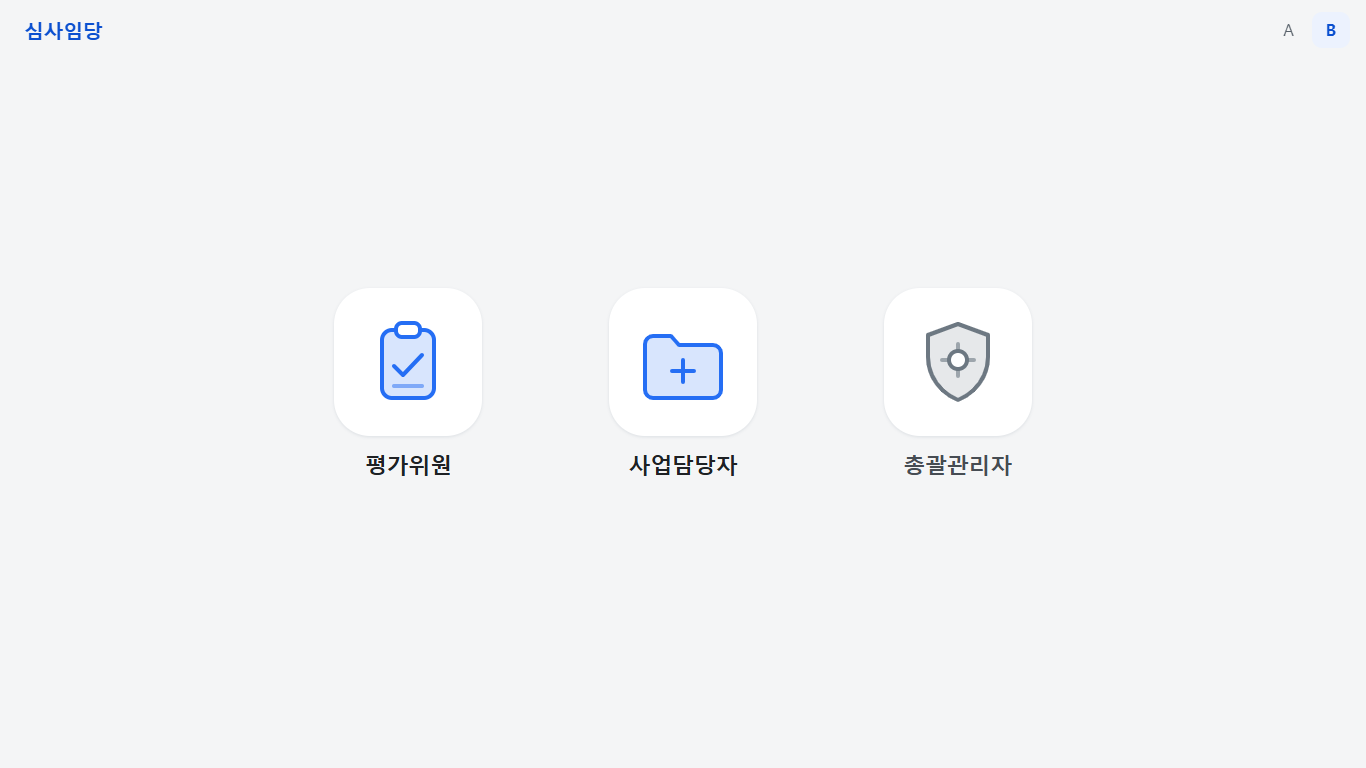
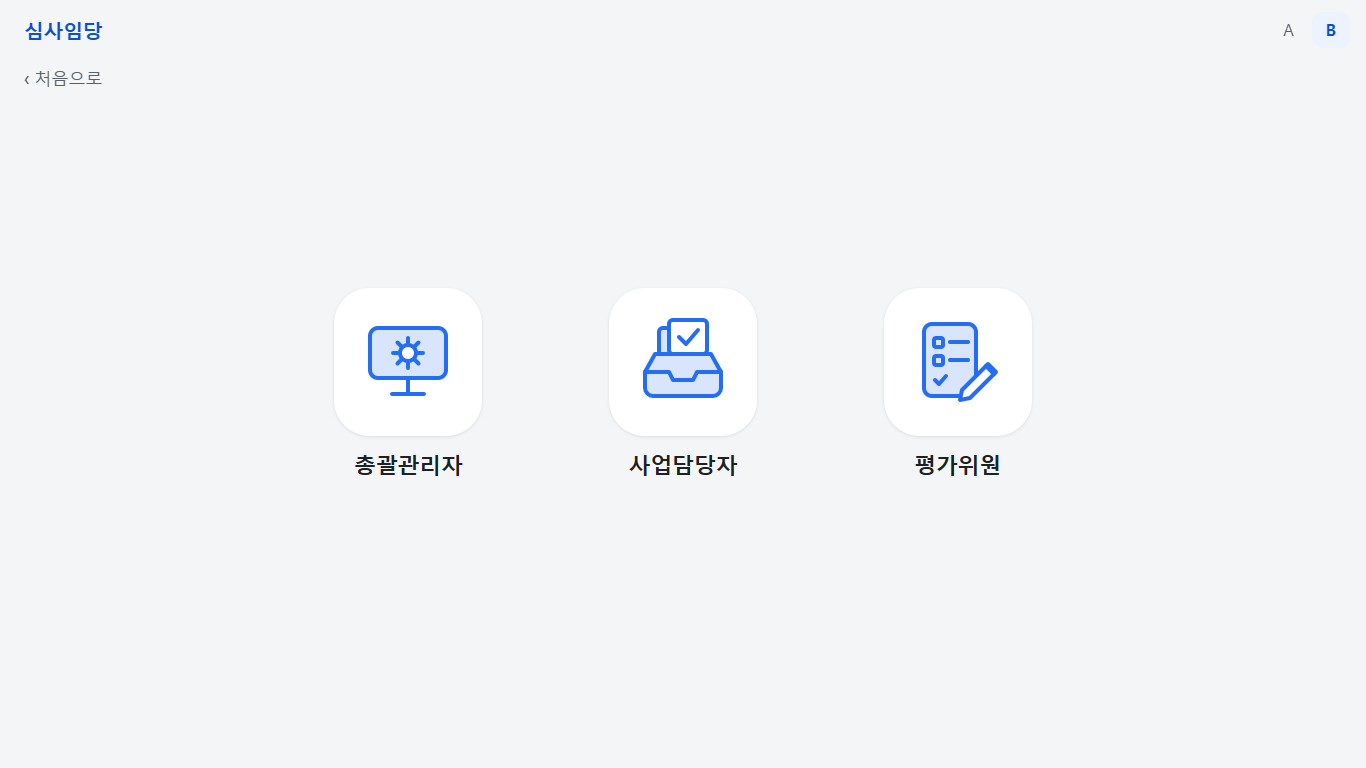
docs(v2): 입장 화면 — 기존 소개 화면 → 아이콘 3개(총괄·사업담당·평가위원), 역할별 아이콘
Claude-Session: https://claude.ai/code/session_01LuyyU4d1wqZ9KyXM4oPeDy

diff --git a/v2/00-입장/시안/entry.html b/v2/00-입장/시안/entry.html
@@ -4,10 +4,11 @@
 <meta charset="utf-8">
 <meta name="viewport" content="width=device-width, initial-scale=1">
 <title>심사임당 입장</title>
-<!-- 순서 결정: 평가위원 · 사업담당자 · 총괄관리자. 자주 쓰는 순으로 두고, 가끔 쓰는 총괄관리자는 맨 끝에 같은 크기·회색 톤으로 조용히 둠. -->
+<!-- 흐름: 기존 소개 첫 화면 → [평가 시작] → 아이콘 3개(총괄관리자 · 사업담당자 · 평가위원, 같은 비중) → 로그인. -->
 <style>
 :root{
   --primary-5:#ecf2fe;--primary-10:#d8e5fd;--primary-20:#b1cefb;--primary-50:#256ef4;--primary-60:#0b50d0;
+  --secondary-70:#063a74;--secondary-90:#031f3f;--on-dark-2:#d8e5fd;--on-dark-3:#b1cefb;--glow:rgb(37 110 244/.2);--shadow-5:0 15px 35px rgb(3 31 63/.18);--vendor-a:#256ef4;--vendor-b:#0e8a6a;--vendor-c:#7a4fd6;
   --gray-0:#fff;--gray-5:#f4f5f6;--gray-10:#e6e8ea;--gray-20:#cdd1d5;--gray-30:#b1b8be;--gray-50:#6d7882;--gray-60:#58616a;--gray-70:#464c53;--gray-90:#1e2124;
   --text-1:var(--gray-90);--text-2:var(--gray-70);--text-3:var(--gray-60);
   --radius-sm:10px;--radius-lg:20px;
@@ -30,6 +31,7 @@ body.vb{--page:var(--gray-5)}
 .vt a:hover{background:var(--gray-10)}
 .mark{position:fixed;top:16px;left:24px;font-weight:800;font-size:20px;letter-spacing:-.02em;color:var(--primary-60);margin:0}
 
+main:focus{outline:none}
 main{min-height:100vh;display:flex;flex-direction:column;align-items:center;justify-content:center;padding:96px 24px 64px}
 .choices{display:flex;gap:clamp(16px,4vw,72px);justify-content:center;align-items:flex-start;list-style:none;margin:0;padding:0}
 .choices li{display:block}
@@ -47,14 +49,12 @@ main{min-height:100vh;display:flex;flex-direction:column;align-items:center;just
 .pick:focus-visible{outline-offset:2px}
 
 .ic-fill{fill:var(--primary-5)} .ic-line{stroke:var(--primary-50)}
-.pick.admin .ic-fill{fill:var(--gray-10)} .pick.admin .ic-line{stroke:var(--gray-50)}
-.pick.admin .name{color:var(--text-2)}
 svg *{stroke-linecap:round;stroke-linejoin:round}
 
 .vb .ico{width:148px;height:148px;border-radius:36px;background:var(--gray-0);box-shadow:var(--shadow-1)}
 .vb .ico svg{width:96px;height:96px}
 .vb .pick:hover .ico,.vb .pick:focus-visible .ico{box-shadow:var(--shadow-4)}
-.vb .ic-fill{fill:var(--primary-10)} .vb .pick.admin .ic-fill{fill:var(--gray-10)}
+.vb .ic-fill{fill:var(--primary-10)}
 
 .login{width:100%;max-width:400px;overflow:hidden;max-height:0;opacity:0;transform:translateY(24px);visibility:hidden;
   transition:max-height .45s var(--ease),opacity .35s,transform .45s var(--ease),margin .45s}
@@ -83,7 +83,7 @@ input:focus{outline:3px solid var(--primary-20);border-color:var(--primary-50)}
 @media (max-width:720px){
   main{padding:72px 16px 40px}
   .choices{flex-direction:column;gap:4px;align-items:center}
-  .pick{display:grid;grid-template-columns:auto 1fr;column-gap:20px;row-gap:0;width:300px;max-width:100%;padding:8px 12px;text-align:left;align-items:center;justify-items:start}
+  .pick{display:grid;grid-template-columns:auto 1fr;column-gap:20px;row-gap:0;width:340px;max-width:100%;padding:8px 12px;text-align:left;align-items:center;justify-items:start}
   .pick .ico{grid-row:1/3}
   .ico,.ico svg{width:80px;height:80px}
   .vb .ico{width:88px;height:88px;border-radius:24px}.vb .ico svg{width:56px;height:56px}
@@ -93,34 +93,106 @@ input:focus{outline:3px solid var(--primary-20);border-color:var(--primary-50)}
 }
 @media (prefers-reduced-motion:reduce){
   *,*::before,*::after{transition:none!important;animation:none!important}
+  .cs-tilt{transform:none!important}
 }
+
+/* ── 첫 화면(기존 앱 소개 화면 그대로) ── */
+.intro{position:fixed;inset:0;z-index:20;overflow:auto;background:linear-gradient(160deg,var(--secondary-90),var(--secondary-70));color:#fff;
+  padding:48px;display:flex;flex-direction:column;justify-content:space-between;gap:32px;transition:opacity .45s var(--ease),visibility 0s}
+.intro::before{content:'';position:absolute;inset:auto -20% -30% auto;width:70%;aspect-ratio:1;border-radius:9999px;background:radial-gradient(closest-side,var(--glow),transparent);pointer-events:none}
+.intro>*{position:relative}
+.s-pick .intro{opacity:0;visibility:hidden;pointer-events:none;transition:opacity .45s var(--ease),visibility 0s .45s}
+.brand{display:flex;align-items:center;gap:12px}
+.brand strong{font-size:20px;color:#fff;display:block}
+.brand-mark{width:38px;height:38px;border-radius:var(--radius-sm);background:var(--primary-50);color:#fff;display:grid;place-items:center;font-weight:700}
+.hero-body{display:flex;flex-direction:column}
+.hero-eyebrow{color:var(--on-dark-3);font-weight:700;margin:0 0 8px}
+.intro h1{font-size:48px;line-height:1.3;margin:12px 0 8px}
+.cs-scene{perspective:1100px;height:40px;margin:0;display:grid;place-items:center;transform:translate(27vw,-70px) scale(1.4)}
+.cs-tilt{position:relative;width:280px;height:250px;transform-style:preserve-3d;transition:transform .25s var(--ease)}
+.cs-card{position:absolute;left:50%;top:50%;width:236px;margin:-108px 0 0 -118px;padding:16px;border-radius:var(--radius-lg);background:#fff;color:var(--text-1);box-shadow:var(--shadow-4);
+  display:flex;flex-direction:column;gap:16px;transform:translate(var(--x),var(--y)) rotate(var(--r));animation:cs-in .9s cubic-bezier(.34,1.56,.64,1) backwards;animation-delay:calc(var(--i)*110ms + 120ms)}
+.cs-head{display:flex;align-items:center;gap:12px;font-size:16px}
+.vendor-dot{display:inline-grid;place-items:center;width:28px;height:28px;border-radius:var(--radius-sm);color:#fff;font-size:14px;font-weight:700;background:var(--vc)}
+.cs-lines{display:flex;flex-direction:column;gap:8px}
+.cs-lines i{display:block;height:9px;border-radius:20px;background:var(--gray-10)}
+.cs-lines i.hl{background:#d3ebfd;box-shadow:inset 3px 0 0 var(--primary-50)}
+.cs-foot{display:flex;justify-content:space-between;align-items:center;margin-top:4px}
+.cs-tag{font-size:14px;font-weight:700;color:var(--primary-60)}
+.cs-page{font-size:14px;font-weight:700;padding:4px 12px;border-radius:20px;background:var(--primary-5);color:var(--primary-60);border:1px solid var(--primary-10)}
+@keyframes cs-in{from{opacity:0;transform:translate(0,90px) rotate(0) scale(.86)}to{opacity:1;transform:translate(var(--x),var(--y)) rotate(var(--r)) scale(1)}}
+.hero-stats{list-style:none;padding:0;margin:12px 0 0;display:flex;gap:32px}
+.hero-stats li{display:flex;flex-direction:column;gap:4px}
+.hero-stats strong{font-size:30px;line-height:1.1;font-variant-numeric:tabular-nums}
+.hero-stats span{color:var(--on-dark-2);font-size:16px}
+.hero-note{color:var(--on-dark-2);font-size:18px;margin:16px 0 0;max-width:600px;text-wrap:balance}
+@media (max-height:760px){.hero-note{display:none}}
+.hero-start{margin-top:32px;min-height:60px;padding:0 32px;border:0;border-radius:var(--radius-lg);background:#fff;color:var(--secondary-90);font:inherit;font-size:20px;font-weight:700;cursor:pointer;box-shadow:var(--shadow-4);transition:transform .18s var(--ease),box-shadow .18s var(--ease)}
+.hero-start:hover{transform:translateY(-2px);box-shadow:var(--shadow-5)}
+.hero-start:active{transform:scale(.98)}
+.hero-start:focus-visible{outline:3px solid #fff;outline-offset:4px;box-shadow:none}
+.intro small{color:var(--on-dark-3);font-size:16px}
+.fade-up{animation:hero-fade-up .7s var(--ease) both;animation-delay:var(--d,0ms)}
+@keyframes hero-fade-up{from{opacity:0;transform:translateY(18px)}to{opacity:1;transform:none}}
+.s-intro .vt{z-index:30}
+.s-intro .vt a{color:var(--on-dark-3)} .s-intro .vt a[aria-current="true"]{background:rgb(255 255 255/.15);color:#fff} .s-intro .vt a:hover{background:rgb(255 255 255/.2)}
+.s-intro .mark,.s-intro .home{visibility:hidden}
+.home{position:fixed;top:56px;left:12px;appearance:none;background:none;border:0;color:var(--text-3);font-size:17px;min-height:44px;padding:0 12px;cursor:pointer;border-radius:var(--radius-sm);display:flex;align-items:center;z-index:5}
+.home:hover{background:var(--gray-10);color:var(--text-1)}
+.picked .home{visibility:hidden}
+@media (max-width:1100px){.cs-scene{height:250px;transform:scale(.9)}}
+@media (max-width:900px){.intro{padding:32px 24px}.intro h1{font-size:36px}.cs-scene{height:220px;transform:scale(.75);margin:-10px 0}.hero-start{width:100%}}
 </style>
 </head>
-<body>
+<body class="s-intro">
+<section class="intro" id="intro" aria-label="심사임당 소개">
+  <div class="brand fade-up" style="--d:0ms"><span class="brand-mark">심</span><strong>심사임당</strong></div>
+  <div class="hero-body">
+    <p class="hero-eyebrow fade-up" style="--d:100ms">공공 제안평가 지원 서비스</p>
+    <h1 class="fade-up" style="--d:200ms">근거를 빠르게 찾고,<br>판단은 위원이 합니다.</h1>
+    <div class="cs-scene" aria-hidden="true"><div class="cs-tilt" id="tilt">
+      <div class="cs-card" style="--x:-64px;--y:18px;--r:-9deg;--i:0;z-index:1"><div class="cs-head"><span class="vendor-dot" style="--vc:var(--vendor-a)">A</span><strong>A사 제안서</strong></div><div class="cs-lines"><i class="hl" style="width:78%"></i><i style="width:86%"></i><i class="hl" style="width:58%"></i><i style="width:92%"></i></div><div class="cs-foot"><span class="cs-tag">근거</span><span class="cs-page">p.12</span></div></div>
+      <div class="cs-card" style="--x:0px;--y:-6px;--r:-1deg;--i:1;z-index:2"><div class="cs-head"><span class="vendor-dot" style="--vc:var(--vendor-b)">B</span><strong>B사 제안서</strong></div><div class="cs-lines"><i style="width:86%"></i><i style="width:58%"></i><i class="hl" style="width:92%"></i><i style="width:78%"></i></div><div class="cs-foot"><span class="cs-tag">근거</span><span class="cs-page">p.27</span></div></div>
+      <div class="cs-card" style="--x:64px;--y:22px;--r:8deg;--i:2;z-index:3"><div class="cs-head"><span class="vendor-dot" style="--vc:var(--vendor-c)">C</span><strong>C사 제안서</strong></div><div class="cs-lines"><i class="hl" style="width:58%"></i><i style="width:92%"></i><i style="width:78%"></i><i class="hl" style="width:86%"></i></div><div class="cs-foot"><span class="cs-tag">근거</span><span class="cs-page">p.8</span></div></div>
+    </div></div>
+    <ul class="hero-stats fade-up" style="--d:450ms"><li><strong>6</strong><span>업무 단계</span></li><li><strong>3</strong><span>역할</span></li><li><strong>0</strong><span>AI 자동 확정</span></li></ul>
+    <p class="hero-note fade-up" style="--d:330ms">AI가 찾은 근거에는 원문 쪽 번호가 붙고, 점수 입력·제출·확정은 사람만 할 수 있습니다.</p>
+    <div class="fade-up" style="--d:600ms"><button type="button" class="hero-start" id="start">평가 시작 →</button></div>
+  </div>
+  <small>© 2026 심사임당 · 팀 프로젝트 개발 화면</small>
+</section>
+
 <p class="mark">심사임당</p>
+<button class="home" type="button" id="home">‹ 처음으로</button>
 <nav class="vt" aria-label="시안 전환"><a href="?v=a" id="va">A</a><a href="?v=b" id="vb">B</a></nav>
 
-<main id="stage">
+<main id="stage" tabindex="-1" inert>
   <h1 class="sr-only">어떤 일로 오셨나요?</h1>
   <ul class="choices" role="list">
-    <li><button class="pick" data-role="eval" type="button">
+    <li><button class="pick" data-role="admin" type="button">
       <span class="ico" aria-hidden="true"><svg viewBox="0 0 96 96" fill="none" stroke-width="4">
-        <rect class="ic-fill ic-line" x="22" y="16" width="52" height="68" rx="10"/>
-        <rect class="ic-line" x="36" y="9" width="24" height="14" rx="6" style="fill:#fff"/>
-        <path class="ic-line" d="M34 52l9 9 19-20"/>
-        <path class="ic-line" d="M34 72h28" opacity=".5"/></svg></span>
-      <span class="name">평가위원</span><span class="hint">문서 열람·평가</span></button></li>
+        <rect class="ic-fill ic-line" x="10" y="14" width="76" height="50" rx="8"/>
+        <path class="ic-line" d="M48 64v14M32 80h32"/>
+        <circle class="ic-line" cx="48" cy="39" r="8" style="fill:#fff"/>
+        <path class="ic-line" d="M48 24v5M48 49v5M33 39h5M58 39h5M37.5 28.5l3.5 3.5M55 46l3.5 3.5M58.5 28.5L55 32M41 46l-3.5 3.5"/></svg></span>
+      <span class="name">총괄관리자</span><span class="hint">시스템 운영·계정 관리</span></button></li>
     <li><button class="pick" data-role="biz" type="button">
       <span class="ico" aria-hidden="true"><svg viewBox="0 0 96 96" fill="none" stroke-width="4">
-        <path class="ic-fill ic-line" d="M10 30a8 8 0 018-8h18l8 9h34a8 8 0 018 8v37a8 8 0 01-8 8H18a8 8 0 01-8-8z"/>
-        <path class="ic-line" d="M48 46v22M37 57h22"/></svg></span>
-      <span class="name">사업담당자</span><span class="hint">사업 등록·위원 선정</span></button></li>
-    <li><button class="pick admin" data-role="admin" type="button">
+        <rect class="ic-fill ic-line" x="24" y="14" width="38" height="32" rx="4"/>
+        <rect class="ic-line" x="34" y="6" width="38" height="34" rx="4" style="fill:#fff"/>
+        <path class="ic-line" d="M44 23l7 7 12-14"/>
+        <path class="ic-fill ic-line" d="M10 58l10-18h56l10 18v16a8 8 0 01-8 8H18a8 8 0 01-8-8z"/>
+        <path class="ic-line" d="M10 58h24l4 8h20l4-8h24"/></svg></span>
+      <span class="name">사업담당자</span><span class="hint">문서·위원 접수와 결정</span></button></li>
+    <li><button class="pick" data-role="eval" type="button">
       <span class="ico" aria-hidden="true"><svg viewBox="0 0 96 96" fill="none" stroke-width="4">
-        <path class="ic-fill ic-line" d="M48 10l30 11v22c0 20-13 36-30 43-17-7-30-23-30-43V21z"/>
-        <circle class="ic-line" cx="48" cy="46" r="9" style="fill:#fff"/>
-        <path class="ic-line" d="M48 30v7M48 55v7M32 46h7M57 46h7" opacity=".6"/></svg></span>
-      <span class="name">총괄관리자</span><span class="hint">시스템 운영</span></button></li>
+        <rect class="ic-fill ic-line" x="14" y="10" width="52" height="72" rx="8"/>
+        <rect class="ic-line" x="24" y="24" width="9" height="9" rx="2"/><path class="ic-line" d="M40 28h18"/>
+        <rect class="ic-line" x="24" y="42" width="9" height="9" rx="2"/><path class="ic-line" d="M40 46h18"/>
+        <path class="ic-line" d="M25 66l4 4 7-8"/>
+        <path class="ic-line" d="M52 76l-2 10 10-2 26-26-8-8z" style="fill:#fff"/>
+        <path class="ic-line" d="M76 52l8 8"/></svg></span>
+      <span class="name">평가위원</span><span class="hint">기준에 맞춰 제안서 평가</span></button></li>
   </ul>
 
   <div class="login" id="login">
@@ -140,7 +212,7 @@ input:focus{outline:3px solid var(--primary-20);border-color:var(--primary-50)}
   var v=(q==='b')?'b':'a';
   document.body.classList.add('v'+v);
   document.getElementById('v'+v).setAttribute('aria-current','true');
-  var body=document.body,msg=document.getElementById('msg'),f=document.getElementById('f');
+  var body=document.body,stage=document.getElementById('stage'),msg=document.getElementById('msg'),f=document.getElementById('f');
   var picks=document.querySelectorAll('.pick'),cur=null;
   function setForm(role){
     var t=role==='eval'?[['이름','text'],['전화번호','tel']]:[['아이디','text'],['비밀번호','password']];
@@ -158,6 +230,13 @@ input:focus{outline:3px solid var(--primary-20);border-color:var(--primary-50)}
     body.classList.add('picked');
     setTimeout(function(){f.querySelector('input').focus()},150);
   }
+  function toPick(){body.classList.remove('s-intro');body.classList.add('s-pick');document.getElementById('intro').inert=true;stage.inert=false;setTimeout(function(){stage.focus()},300)}
+  function toIntro(){body.classList.remove('s-pick','picked');body.classList.add('s-intro');picks.forEach(function(p){p.classList.remove('on')});stage.inert=true;document.getElementById('intro').inert=false;document.getElementById('start').focus()}
+  document.getElementById('start').addEventListener('click',toPick);
+  document.getElementById('home').addEventListener('click',toIntro);
+  document.getElementById('start').focus();
+  var tilt=document.getElementById('tilt'),rm=matchMedia('(prefers-reduced-motion: reduce)').matches;
+  if(!rm)document.getElementById('intro').addEventListener('pointermove',function(e){tilt.style.transform='rotateX('+(-(e.clientY/innerHeight-.5)*12).toFixed(2)+'deg) rotateY('+((e.clientX/innerWidth-.5)*12).toFixed(2)+'deg)'});
   function back(){
     body.classList.remove('picked');
     picks.forEach(function(p){p.classList.remove('on')});
@@ -165,7 +244,7 @@ input:focus{outline:3px solid var(--primary-20);border-color:var(--primary-50)}
   }
   picks.forEach(function(p){p.addEventListener('click',function(){if(!body.classList.contains('picked'))choose(p)})});
   document.getElementById('back').addEventListener('click',back);
-  document.addEventListener('keydown',function(e){if(e.key==='Escape'&&body.classList.contains('picked'))back()});
+  document.addEventListener('keydown',function(e){if(e.key!=='Escape')return;if(body.classList.contains('picked'))back();else if(body.classList.contains('s-pick'))toIntro()});
   f.addEventListener('submit',function(e){
     e.preventDefault();msg.textContent='시안입니다 · 실제 로그인은 연결되지 않아요';msg.classList.add('show');
   });

diff --git a/v2/00-입장/화면카드.md b/v2/00-입장/화면카드.md
@@ -4,12 +4,12 @@
 | 항목 | 내용 (항목당 한 줄) |
 |---|---|
 | 누가 · 언제 | 모든 사용자 · 첫 접속 |
-| 앞 화면 → 이 화면 → 다음 화면 | |
+| 앞 화면 → 이 화면 → 다음 화면 | 첫 화면(기존 소개) → [시작] → 아이콘 3개 → 로그인 |
 | 이 화면의 일 (한 문장) | 내 입장 고르기 |
 | 사용자가 답할 질문 | "어떤 일로 오셨나요?" → 아이콘 하나 |
-| 보여 줄 것 (최대 4개) | 아이콘 3개 + 이름 (평가위원 · 사업담당자 · 총괄관리자 순, 총괄은 회색 톤) |
+| 보여 줄 것 (최대 4개) | 아이콘 3개 + 이름 (총괄관리자 · 사업담당자 · 평가위원 순, 같은 비중) |
 | 숨길 것 (눌렀을 때) | 설명 한 줄(올렸을 때), 로그인 칸(누른 뒤) |
-| 주 버튼 1개 / 보조 버튼 | 아이콘 / ‹ 다른 입장 선택 |
+| 주 버튼 1개 / 보조 버튼 | 아이콘 / ‹ 처음으로 · ‹ 다른 입장 선택 |
 | 상태 | 로그인 실패 · 잠금 |
 | 읽는 테이블 / 쓰는 테이블 | DB_CONTRACT 기준 |
 | 기능 카드 | `ENTRY-01`, `ENTRY-02` … |
@@ -19,7 +19,7 @@
 |---|---|---|
 
 ## 시안
-- A: 흰 화면에 큰 아이콘 3개를 한 줄로 (`시안/entry.html?v=a`)
+- A: 흰 화면에 큰 아이콘 3개를 한 줄로 (`시안/entry.html?v=a`, 시작 버튼 뒤에 나옴)
 - B: 연한 회색 화면에 둥근 타일 속 아이콘, 토스 홈 앱 아이콘 느낌 (`?v=b`)
 
 ## 리뷰 결과
@@ -30,3 +30,4 @@
 |---|---|---|
 | 2026-10-16 | "관리자는 이 평가시스템을 관리하는 총괄관리자, 그리고 이 시스템을 이용하려는 사업담당자가 구분되어야 할듯. 총 3개의 입장로가 있는거지" | 입장로 3개: 총괄관리자 · 사업담당자 · 평가위원 |
 | 2026-10-16 | "입장로 부터 만들어줘. 토스식으로 아이콘만 먼저 뜨게 만들어줘" | 첫 화면은 아이콘 3개만, 설명은 올렸을 때·로그인은 누른 뒤. 순서는 자주 쓰는 순(평가위원 · 사업담당자 · 총괄관리자), 총괄은 같은 크기에 회색 톤 |
+| 2026-10-16 | "순서는 총괄관리자 - 사업담당자 - 평가위원 식으로 해주고. 아이콘은 다른걸로해줘 … 그리고 맨처음화면은 아까 버전대로 그대로 살리고 버튼을 누르면 이 3개 아이콘이 뜨게 하는게 좋아" | 순서 총괄·사업담당·평가위원 · 역할에 맞는 아이콘(시스템·접수결정·평가) · 첫 화면은 기존 소개 화면 유지 후 버튼 → 아이콘 3개 |
